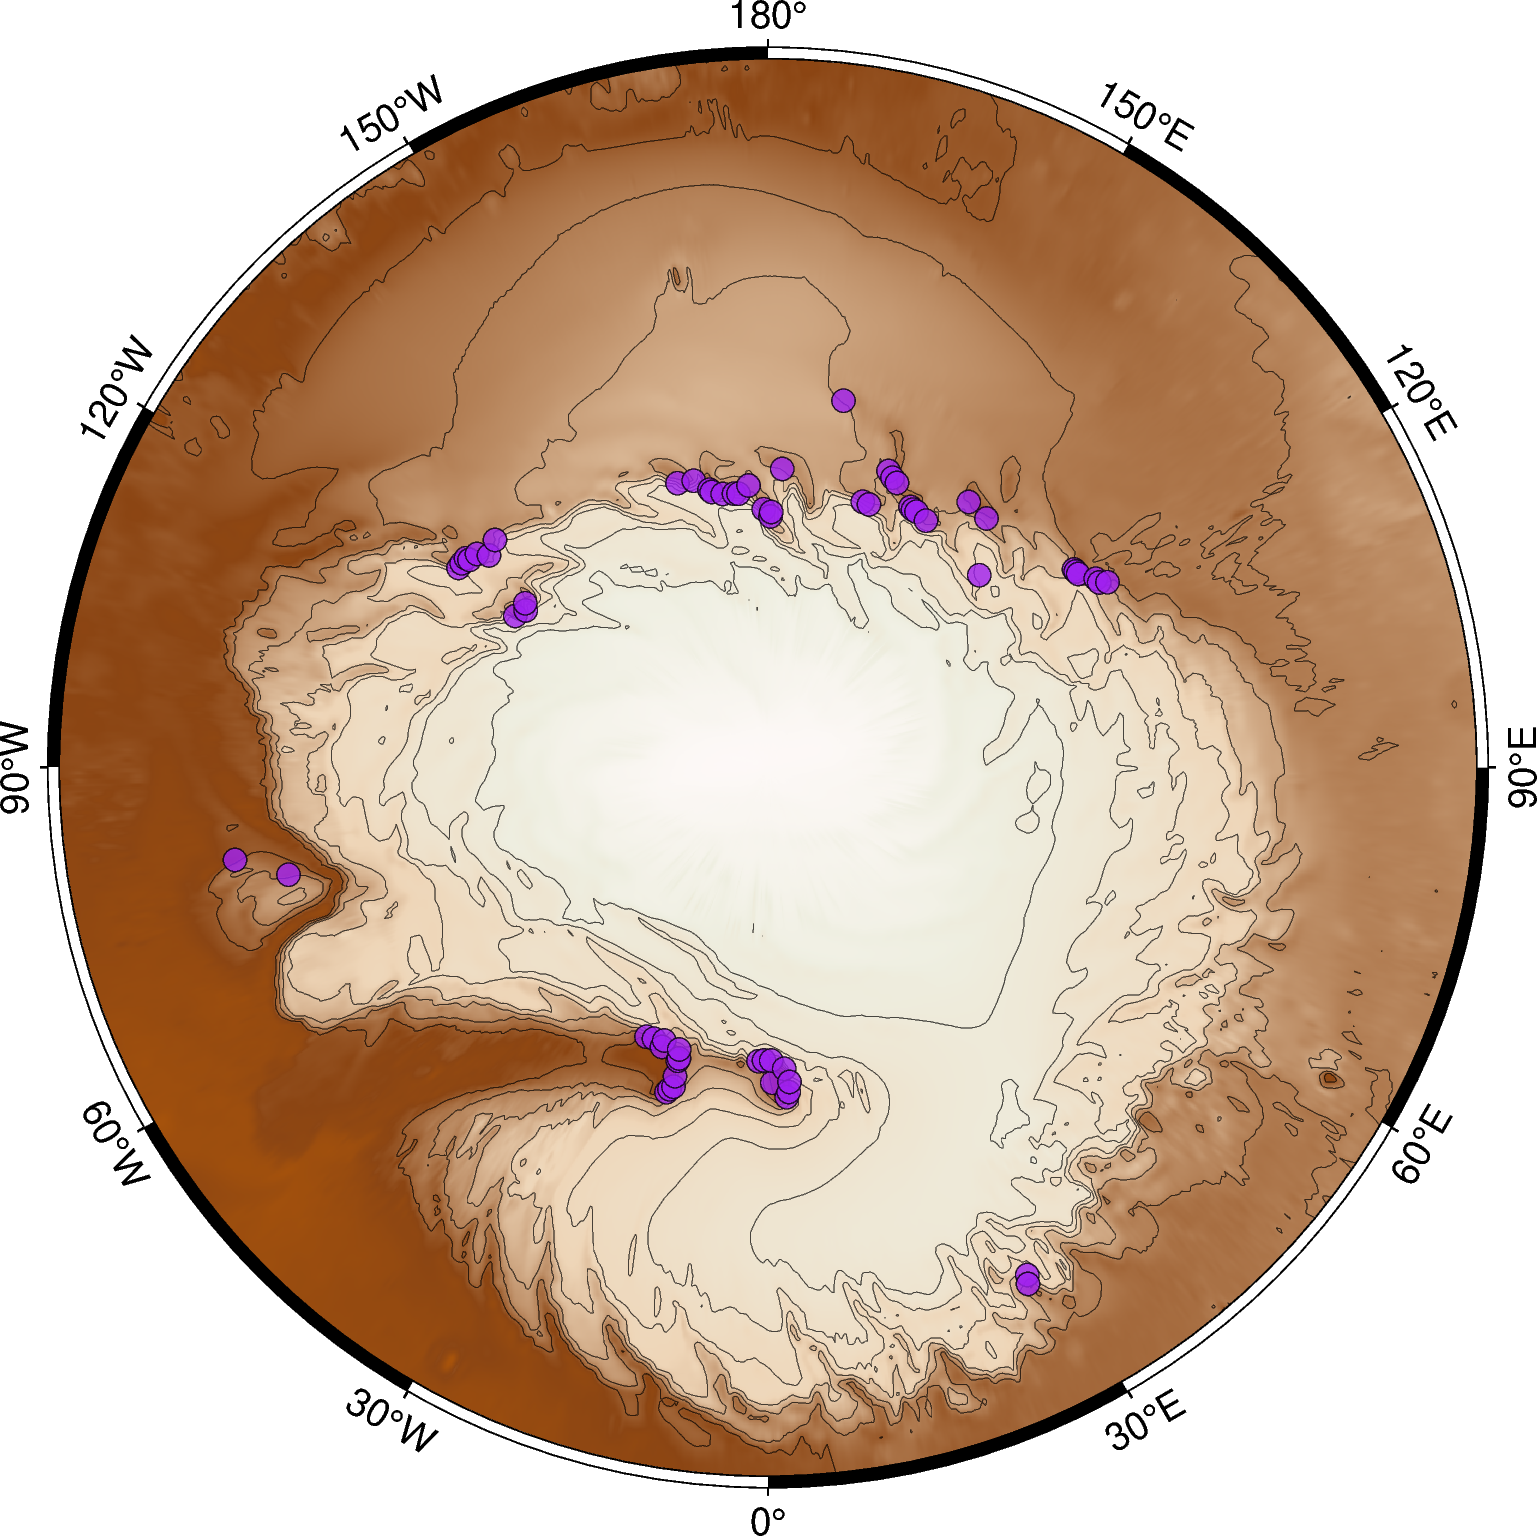
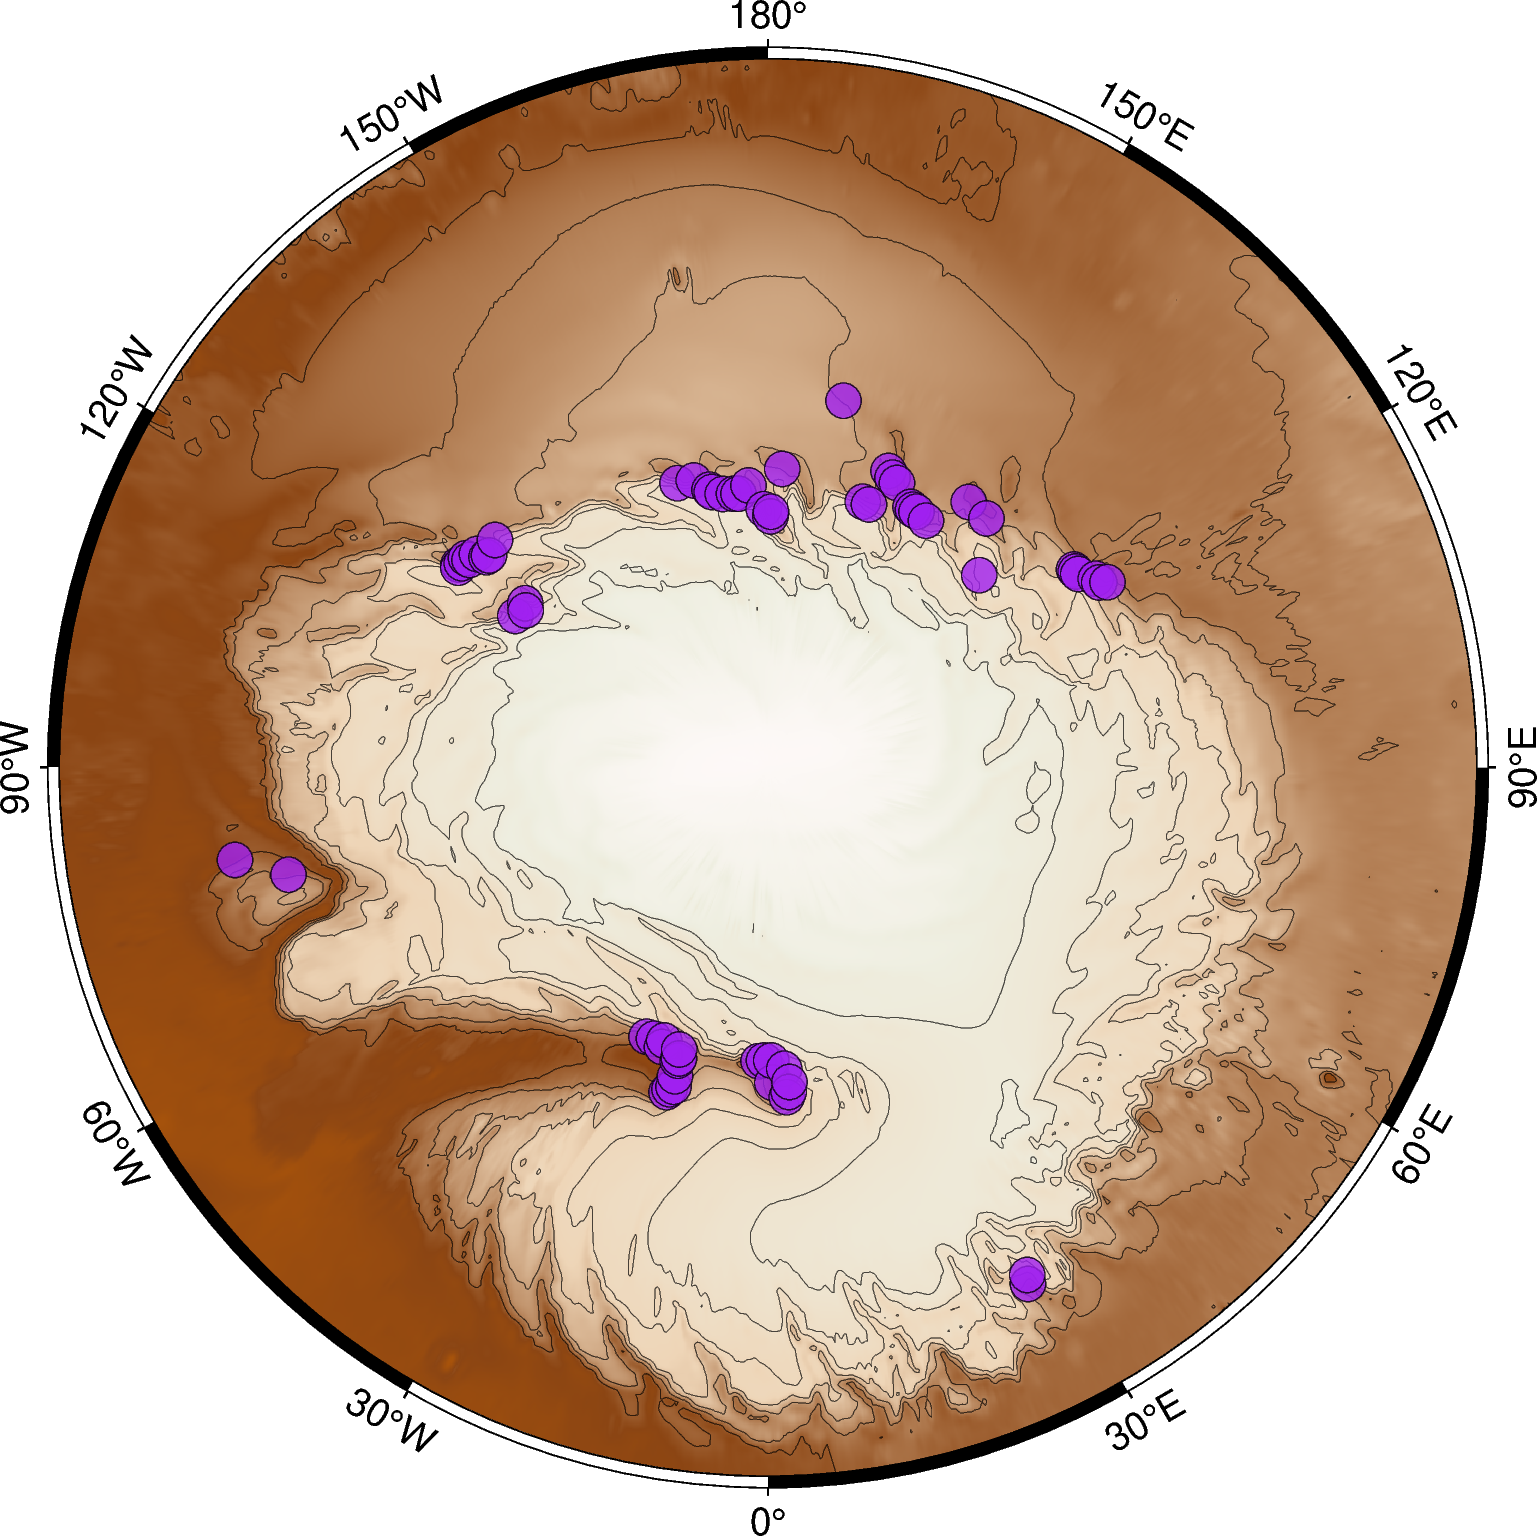
...

diff --git a/Core/mars_plotter.py b/Core/mars_plotter.py
@@ -52,7 +52,8 @@ class MapPlotter:
     def visualize(self,
                   df: pd.DataFrame,
                   target: str, 
-                  engine: str, 
+                  color: str = "purple",
+                  engine: str = "pygmt", 
                   title: str | None = None):
         """
         Visualize the filtered images using the specified engine. 
@@ -64,7 +65,10 @@ class MapPlotter:
                 DataFrame containing the filtered images to visualize.
 
             target : str
-                Target to visualize. One of: `img_rectangle`, `img_centroid`, `cluster_centroid`.
+                Target to visualize. One of: `img_footprint`, `img_centroid`, `cluster`.
+
+            color : str
+                Target color.
 
             engine : str
                 Engine to use for visualization. One of: `pygmt`, `qgis`.
@@ -90,9 +94,9 @@ class MapPlotter:
         if df is None or df.empty:
             raise RuntimeError("Dataframe is empty, please apply some filter before visualization")
 
-        if target not in {'img_rectangle', 'img_centroid', 'cluster_centroid'}:
-            raise ValueError("Unsupported target! Choose one of: `img_rectangle`, `img_centroid`, `cluster_centroid`.")
-        elif target == 'cluster_centroid':
+        if target not in {'img_footprint', 'img_centroid', 'cluster'}:
+            raise ValueError("Unsupported target! Choose one of: `img_footpirnt`, `img_centroid`, `cluster`.")
+        elif target == 'cluster':
             if 'CLUSTER' not in df.columns:
                 raise RuntimeError("Cluster centroids can't be mapped before cluster_filter() is applied")
             df = df.groupby('CLUSTER')[['CTR_LON', 'CTR_LAT', 'CTR_X', 'CTR_Y']].mean().reset_index()
@@ -103,13 +107,14 @@ class MapPlotter:
             else:
                 raise ValueError("Please provide a title to save the GeoJSON file.")
         elif engine == 'pygmt':
-            self._use_pygmt(df, target, title)
+            self._use_pygmt(df, target, color, title)
         else:
             raise ValueError("Unsupported engine! Choose one of: `pygmt` or `qgis`.")
 
     def _use_pygmt(self,
                    df: pd.DataFrame,
                    target: str,
+                   color: str,
                    title: str | None):
         """
         Display a map with overlays based on the target and data provided.
@@ -121,7 +126,7 @@ class MapPlotter:
                 DataFrame containing coordinate data.
 
             target : str
-                Type of overlay. One of 'img_rectangle', 'img_centroid' or 'cluster_centroid'.
+                Type of overlay. One of 'img_footprint', 'img_centroid' or 'cluster'.
 
             title : str | None
                 Title of the output file (without extension).
@@ -149,13 +154,13 @@ class MapPlotter:
         )
         
         with tempfile.NamedTemporaryFile(mode="w", suffix=".txt", delete=False) as tmp:
-            if target in ['img_centroid', 'cluster_centroid']:
+            if target in ['img_centroid', 'cluster']:
                 for _, row in df.iterrows():
                     tmp.write(">\n")
                     tmp.write(f"{row['CTR_LON']} {row['CTR_LAT']}\n")
                 tmp.flush()
                 style = "c0.3"
-            else: # target == 'img_rectangle':
+            else: # target == 'img_footprint':
                 for _, row in df.iterrows():
                     tmp.write(">\n")
                     tmp.write(f"{row['C1_LON']} {row['C1_LAT']}\n")
@@ -166,7 +171,7 @@ class MapPlotter:
                 style = None
            
             
-        fig.plot(data=tmp.name, fill="purple", pen="0.2p,black", style=style, transparency=20)
+        fig.plot(data=tmp.name, fill=color, pen="0.2p,black", style=style, transparency=20)
 
         if title:
             os.makedirs(self.pygmt_savedir, exist_ok=True)
@@ -188,14 +193,14 @@ class MapPlotter:
                 DataFrame containing coordinate and attribute data.
 
             target : str
-                Type of layer to generate. One of: `img_rectangle`, `img_centroid` or `cluster_centroid`.
+                Type of layer to generate. One of: `img_footprint`, `img_centroid` or `cluster`.
                 
             title : str
                 Title of the output file (without extension).
         """
         
         features = []
-        if target == 'img_rectangle':
+        if target == 'img_footprint':
             for idx, row in df.iterrows(): 
                 polygon = gj.Polygon([[(row[f"C{i}_X"], row[f"C{i}_Y"]) for i in [1,2,3,4,1]]])
                 features.append(gj.Feature(geometry=polygon, properties={"ID": idx, "Name": row.PRODUCT_ID}))
@@ -203,7 +208,7 @@ class MapPlotter:
             for idx, row in df.iterrows(): 
                 point = gj.Point((row['CTR_X'], row['CTR_Y']))
                 features.append(gj.Feature(geometry=point, properties={"ID": idx, "Name": row.PRODUCT_ID}))
-        elif target == 'cluster_centroid':
+        elif target == 'cluster':
             for idx, row in df.iterrows(): 
                 point = gj.Point((row['CTR_X'], row['CTR_Y']))
                 features.append(gj.Feature(geometry=point, properties={"CLUSTER": row.CLUSTER}))

diff --git a/Core/mars_index.py b/Core/mars_index.py
@@ -286,7 +286,7 @@ class ImageIndex():
         if self.tmp_df.empty:
             raise ValueError("No clusters found. Try changing the clustering parameters.")
         else:
-            print_stats('CLUSTER FILTER', f'{len(self.tmp_df)} images')
+            print_stats('DENSITY FILTER', f'{len(self.tmp_df)} images')
 
         if commit:
             self.df = self.tmp_df.copy()
@@ -366,7 +366,7 @@ class ImageIndex():
         # 3. Apply Filter: Inner merge automatically filters rows that don't match both Cluster and MY
         if valid_clusters_map:
             self.tmp_df = self.tmp_df.merge(pd.DataFrame(valid_clusters_map), on=['CLUSTER', 'MY'], how='inner')
-            print_stats('YEAR FILTER', f'{len(self.tmp_df)} images')
+            print_stats('TEMPORAL FILTER', f'{len(self.tmp_df)} images')
         else:
             raise ValueError("No clusters found. Try changing the Mars Year filtering parameters.")
 
@@ -554,7 +554,7 @@ class ImageIndex():
         if self.tmp_df.empty:
             raise ValueError("No clusters found. Try changing the allignment filtering parameters.")
         else:
-            print_stats('ALLIGNMENT FILTER', f'{len(self.tmp_df)} images') 
+            print_stats('ALIGNMENT FILTER', f'{len(self.tmp_df)} images') 
 
         if commit:
             self.df = self.tmp_df.copy()

diff --git a/configs/validators.py b/configs/validators.py
@@ -28,8 +28,8 @@ RULES = {
         "Invalid engine! Choose one of: `pygmt` or `qgis`."
     ),
     'target': (
-        lambda x: x in ['img_rectangle', 'img_centroid', 'cluster_centroid'],
-        "Invalid target! Choose one of: `img_rectangle`, `img_centroid`, `cluster_centroid`."
+        lambda x: x in ['img_footprint', 'img_centroid', 'cluster'],
+        "Invalid target! Choose one of: `img_rectangle`, `img_centroid`, `cluster`."
     )
 }
 

diff --git a/README.md b/README.md
@@ -10,8 +10,8 @@ This repository provides Python tools for filtering, retrieving, and mapping ima
 2. **DBSCAN Clustering for Imaging Hotspots**  
    Identify multi-year imaging hotspots using Density-Based Spatial Clustering of Applications with Noise ([DBSCAN](https://github.com/wangyiqiu/dbscan-python)). By grouping overlapping or closely spaced images, you can reveal areas of Mars with repeated HiRISE coverage.
 
-3. **Shapely-Based Stack Selection**  
-   Leverage the geometric capabilities of [Shapely](https://shapely.readthedocs.io/) to handle overlapping images. Automatically choose the best stacks from intersecting footprints and easily incorporate them into your data analysis or map displays.
+3. **Branch and Bound Stack Selection**  
+   Leverage the geometric capabilities of [Shapely](https://shapely.readthedocs.io/) and computational efficiency of the "Branch and Bound" algorithm to handle overlapping images. Automatically choose the best stacks from intersecting footprints and easily incorporate them into your data analysis or map displays.
 
 4. **Visualization with PyGMT and QGIS**  
    Explore and share your results via robust visualization tools. Plot clustered hotspots with [PyGMT](https://www.pygmt.org/) or import your data into [QGIS](https://qgis.org/) for advanced cartographic work and interactive spatial analysis.
@@ -73,8 +73,8 @@ This repository provides Python tools for filtering, retrieving, and mapping ima
     df = index.latitude_filter(commit=False)
 
     # visualize image footprints with PyGMT and image centroids with QGIS
-    plotter.visualize(df, engine='pygmt', target='img_rectangle', title='allignment_flt')
-    plotter.visualize(df, engine='qgis', target='img_centroid', title='allignment_flt')
+    plotter.visualize(df, engine='pygmt', target='img_footprint', title='latitude_flt')
+    plotter.visualize(df, engine='qgis', target='img_centroid', title='latitude_flt')
 
     # filter again, this time using custom LAT and saving the changes
     index.latitude_filter(min_lat = 80);
@@ -138,11 +138,11 @@ In this example use-case we're looking to investigate the seasonal ice dynamics 
 
 The filters can be divided by type into two categories: those that operate on separate images and those that operate on clusters. In the example workflow below the cyan rectangles represent the footprints of individual images, and the purple circles - the cluster centroids:
 
-| Type | [1] Latitude filter | [2] Scale filter | [3] Season filter |
+| Type | [1] Latitude filter | [2] Season filter | [3] Scale filter |
 | :---: | :---: | :---: | :---: |
-|`IMAGE`| ![Alt text](figures/latitude_flt.png "image title") | ![Alt text](figures/scale_flt.png "image title") | ![Alt text](figures/season_flt.png "image title") |
+|`IMAGE`| ![Alt text](figures/latitude_flt.png "image title") | ![Alt text](figures/season_flt.png "image title") | ![Alt text](figures/scale_flt.png "image title") |
 || **[4] Density filter** | **[5] Keyword filter** | **[6] Temporal filter**  |
-|`CLUSTER`| ![Alt text](figures/cluster_flt.png "image title") | ![Alt text](figures/keyword_flt.png "image title") | ![Alt text](figures/my_flt.png "image title") |
+|`CLUSTER`| ![Alt text](figures/density_flt.png "image title") | ![Alt text](figures/keyword_flt.png "image title") | ![Alt text](figures/temporal_flt.png "image title") |
 
 > [!TIP]
 > Click on images to get a better look
